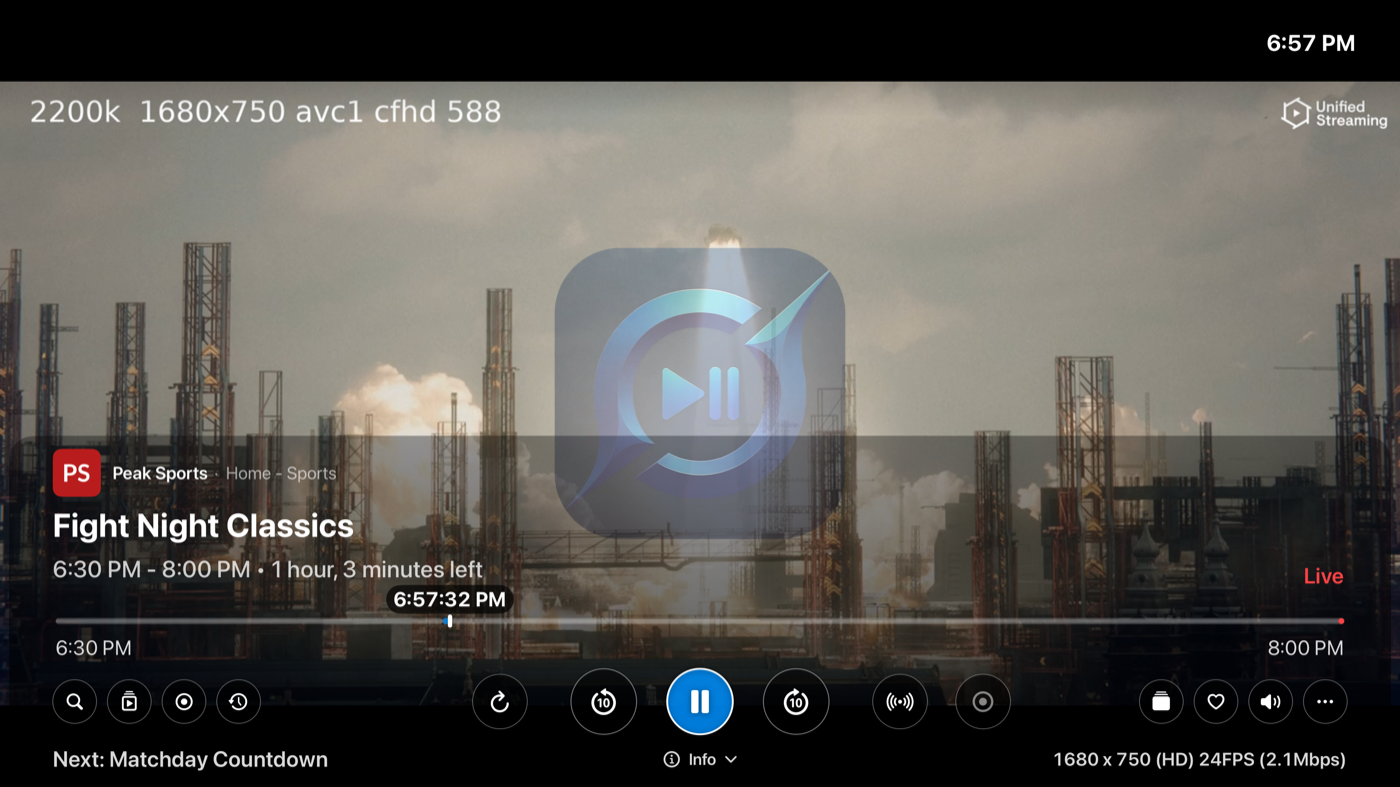
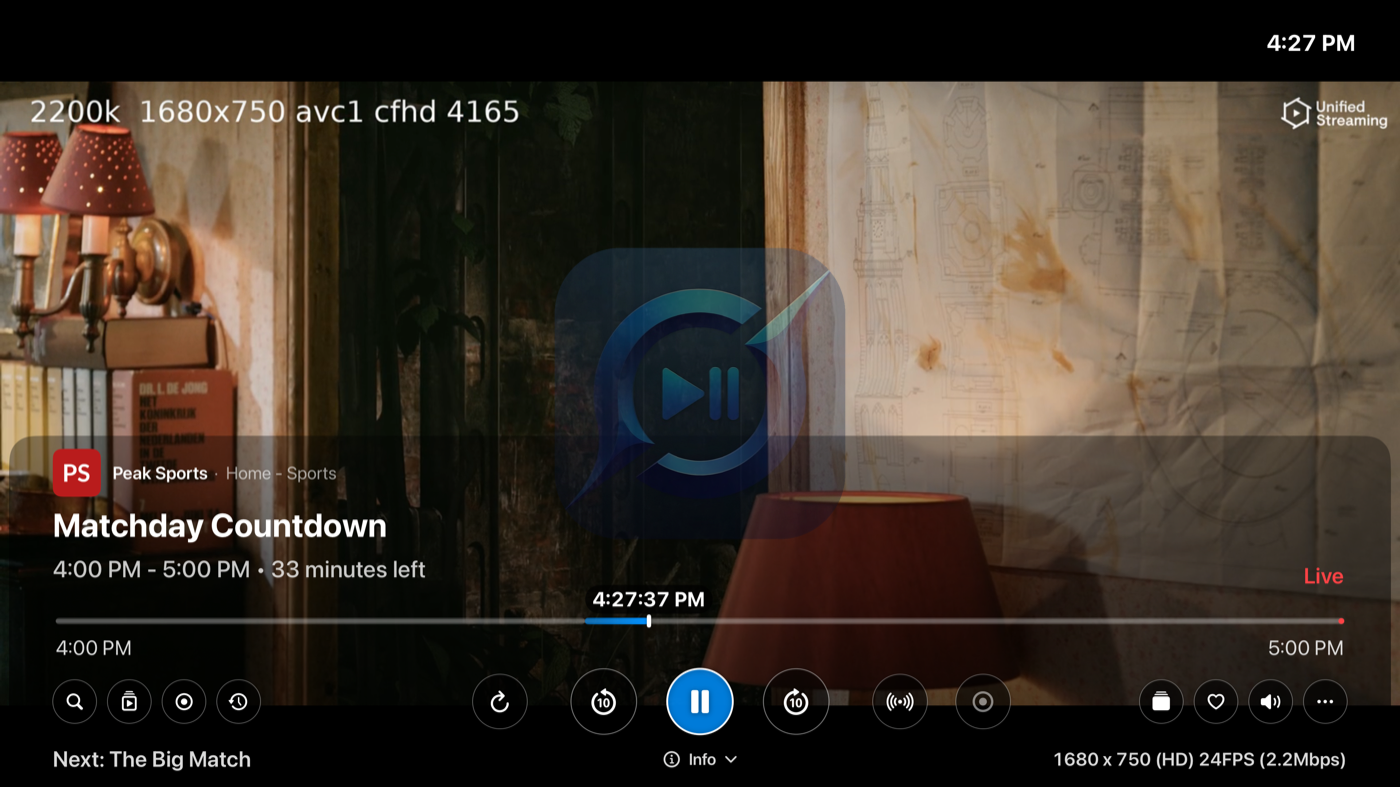
User Guide: add screenshots for recordings panel, nav bar, DVR, Sync, Parental
Round-2 simulator captures (tvOS, fictional demo lineup, watermarked):
4.7 recordings/catchup panel, 4.9 player nav bar, ch6 DVR settings,
ch9 Sync & Data, ch10 Parental Control; refreshed the 4.5 info-overlay
frame with a cleaner shot. 4.8 recent-channels strip stays text-only
(it needs a trackpad swipe the sim keyboard can't send).

diff --git a/userguide.html b/userguide.html
@@ -388,6 +388,11 @@
   <span class="key">Left/Right Buttons</span> — Mini Guide on the left and this
   panel on the right is the default.</p>
 
+  <figure class="fig">
+    <img width="1400" height="787" src="/assets/shots/tv-recpanel.png" alt="Press right for your recordings and catchup, without leaving the stream." loading="lazy">
+    <figcaption>Press right for your recordings and catchup, without leaving the stream.</figcaption>
+  </figure>
+
   <h3 id="tv-recents">4.8 Recent channels</h3>
   <p>Swipe <strong>up</strong> on the bare surface (controls hidden) and a strip of
   your recently watched channels appears over the stream — click one to jump
@@ -408,6 +413,11 @@
   <span class="key">←</span>/<span class="key">→</span> and select one to jump
   there — the player tucks itself back into the preview tile. Press
   <span class="key">↑</span> to climb back up to the program info instead.</p>
+  <figure class="fig">
+    <img width="1400" height="787" src="/assets/shots/tv-playernav.png" alt="The nav bar — reach any section without leaving fullscreen." loading="lazy">
+    <figcaption>The nav bar — reach any section without leaving fullscreen.</figcaption>
+  </figure>
+
 
   <a class="chapter-end" href="#contents">↑ Back to contents</a>
 
@@ -506,6 +516,11 @@
   Stream into a full DVR. It records on your own Mac or PC, and every Apple device
   you've paired can schedule and watch the recordings.
   <a href="/#download">Download it here</a>.</p>
+  <figure class="fig">
+    <img width="1400" height="787" src="/assets/shots/tv-dvr.png" alt="The DVR tab: pair a server, then record, schedule, and play back." loading="lazy">
+    <figcaption>The DVR tab: pair a server, then record, schedule, and play back.</figcaption>
+  </figure>
+
 
   <h3>Pairing</h3>
   <ol>
@@ -599,6 +614,11 @@
   <p>Sync is granular: you choose exactly what syncs and what stays local to each
   device. Set up a new device and your channels, hearts, and preferences are simply
   <em>there</em>.</p>
+  <figure class="fig">
+    <img width="1400" height="787" src="/assets/shots/tv-sync.png" alt="Sync & Data — turn it on, and your setup follows you through iCloud." loading="lazy">
+    <figcaption>Sync & Data — turn it on, and your setup follows you through iCloud.</figcaption>
+  </figure>
+
 
   <a class="chapter-end" href="#contents">↑ Back to contents</a>
 
@@ -617,6 +637,11 @@
   can't be changed without the PIN. Entering the PIN unlocks gated content for the
   current session — but the Parental Control settings screen always asks again,
   every time. Perfect for shared devices like the living-room Apple TV.</p>
+  <figure class="fig">
+    <img width="1400" height="787" src="/assets/shots/tv-parental.png" alt="Parental Control — a PIN, locked categories, and hidden channels." loading="lazy">
+    <figcaption>Parental Control — a PIN, locked categories, and hidden channels.</figcaption>
+  </figure>
+
 
   <a class="chapter-end" href="#contents">↑ Back to contents</a>
 
